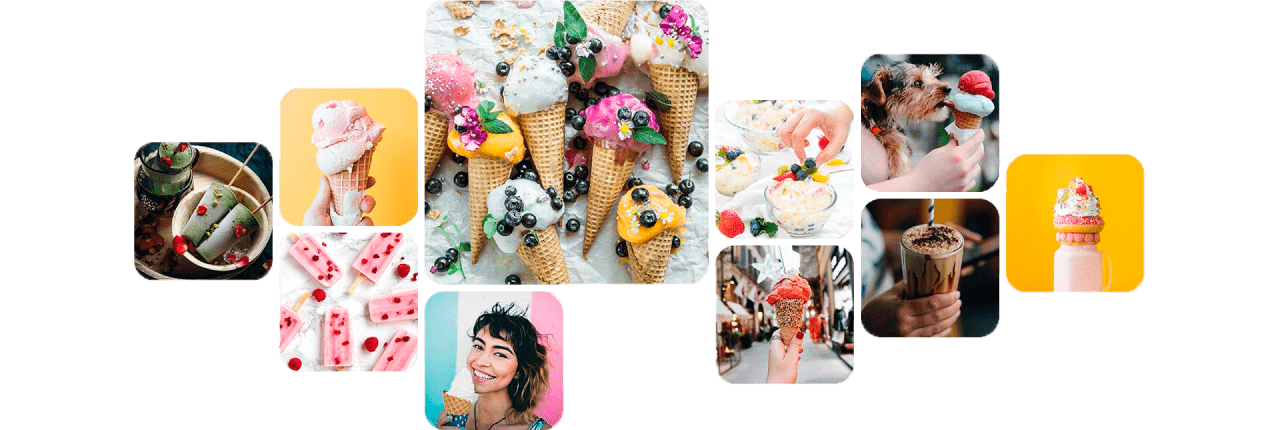
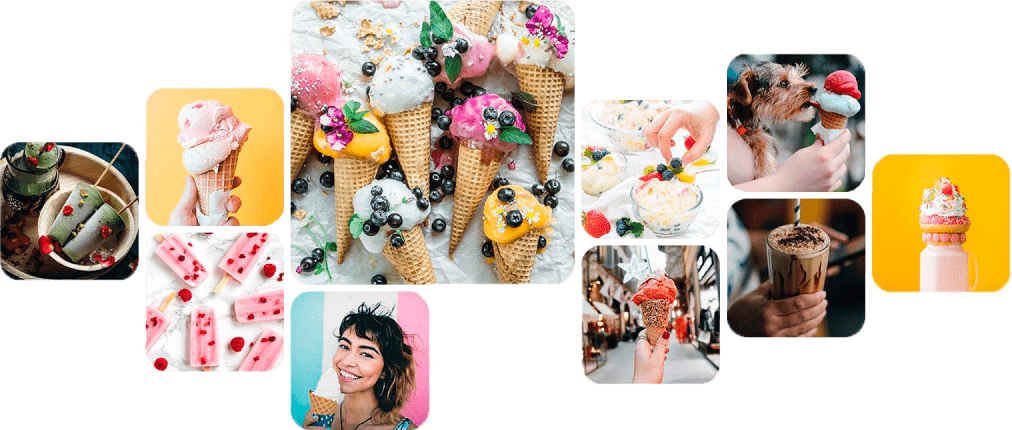
обрезает картинки, что бы выровнять падинги

diff --git a/src/partials/gallery.html b/src/partials/gallery.html
@@ -15,7 +15,7 @@
         media="(min-width: 320px)"
       />
       <img
-        src="./images/gallery_mob1x.png"
+        src="./images/gallery_desktop1x.png"
         class="gallery__example-img"
         alt="Types of IceCream"
         width="100%"

diff --git a/src/sass/_gallery.scss b/src/sass/_gallery.scss
@@ -11,6 +11,5 @@
   @media screen and (min-width: 1280px) {
     padding-bottom: 131px;
     background: linear-gradient(to bottom, $sectionbgColor 33%, $sectionbgColor 5%, $primaryTextColor 5%, $primaryTextColor 50%); 
-    
   }
 }
